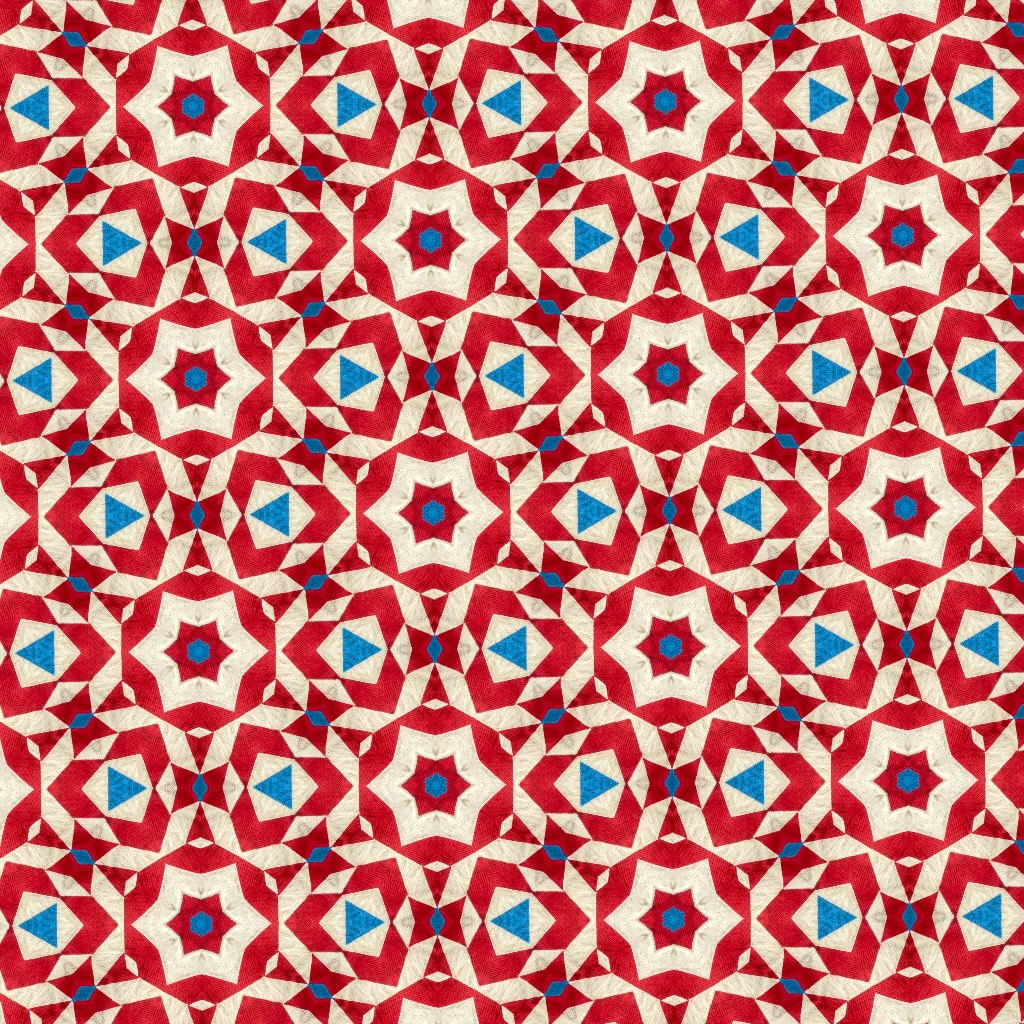
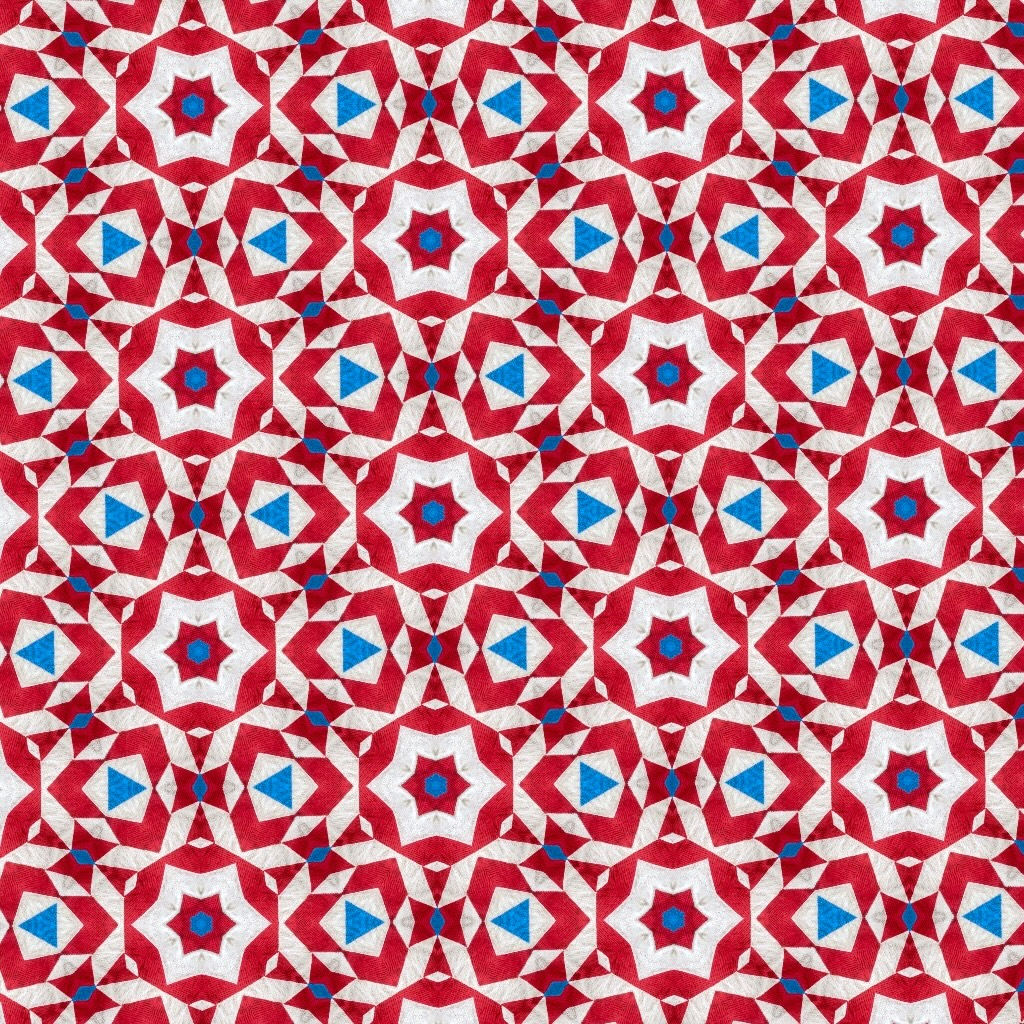
Replaced preview images with better examples

diff --git a/src/App.vue b/src/App.vue
@@ -69,7 +69,7 @@ function dismissPrompt() {
     class="absolute left-0 top-0 h-screen w-screen flex flex-col justify-center items-center"
     style="width:100dvw;height:100dvh;background-size: cover;"
     :style="{
-      'background-image': `url('/kaleidoscope-${Math.ceil(Math.random() * 7)}.jpg')`
+      'background-image': `url('/kaleidoscope-${Math.ceil(Math.random() * 9)}.jpg')`
     }"
   >
     <Prompt
